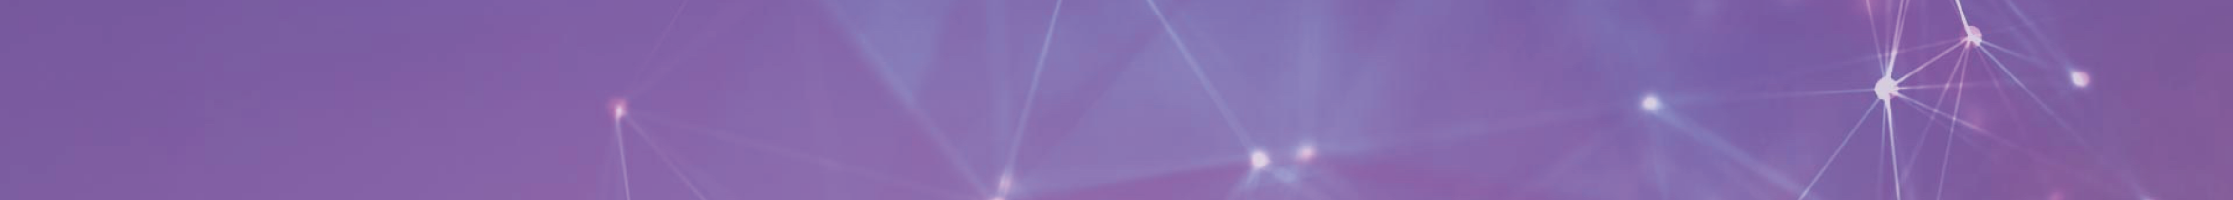
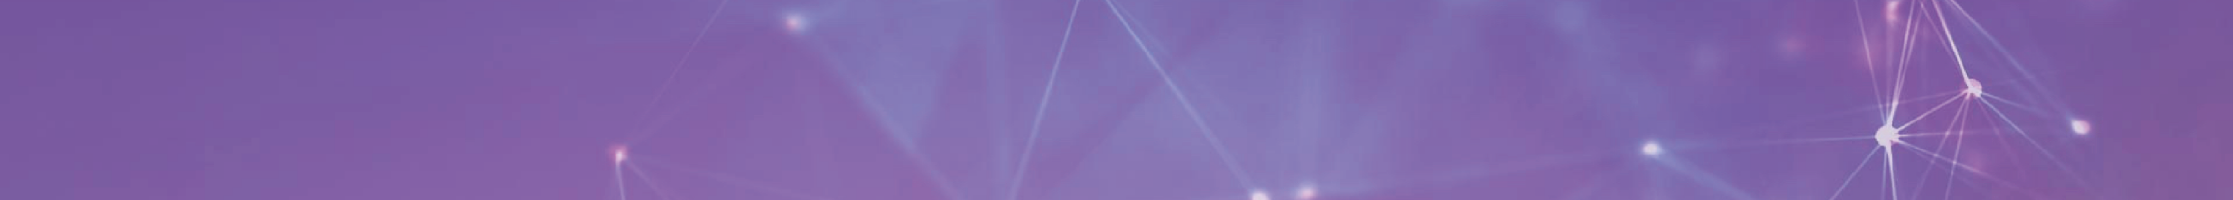
Upadte inner pages backgound image

diff --git a/public/css/ozwillo.css b/public/css/ozwillo.css
@@ -79,11 +79,12 @@ dt {
 *****************************************************************************************************************/
 
 .header {
-    background: url(/static/img/Bandeau_H200.png) no-repeat center center fixed; 
+    background: url(/static/img/Bandeau_H200.png) no-repeat;
     -webkit-background-size: cover;
     -moz-background-size: cover;
     -o-background-size: cover;
     background-size: cover;
+    min-height: 200px;
 }
 
 div.with-subtitle {
